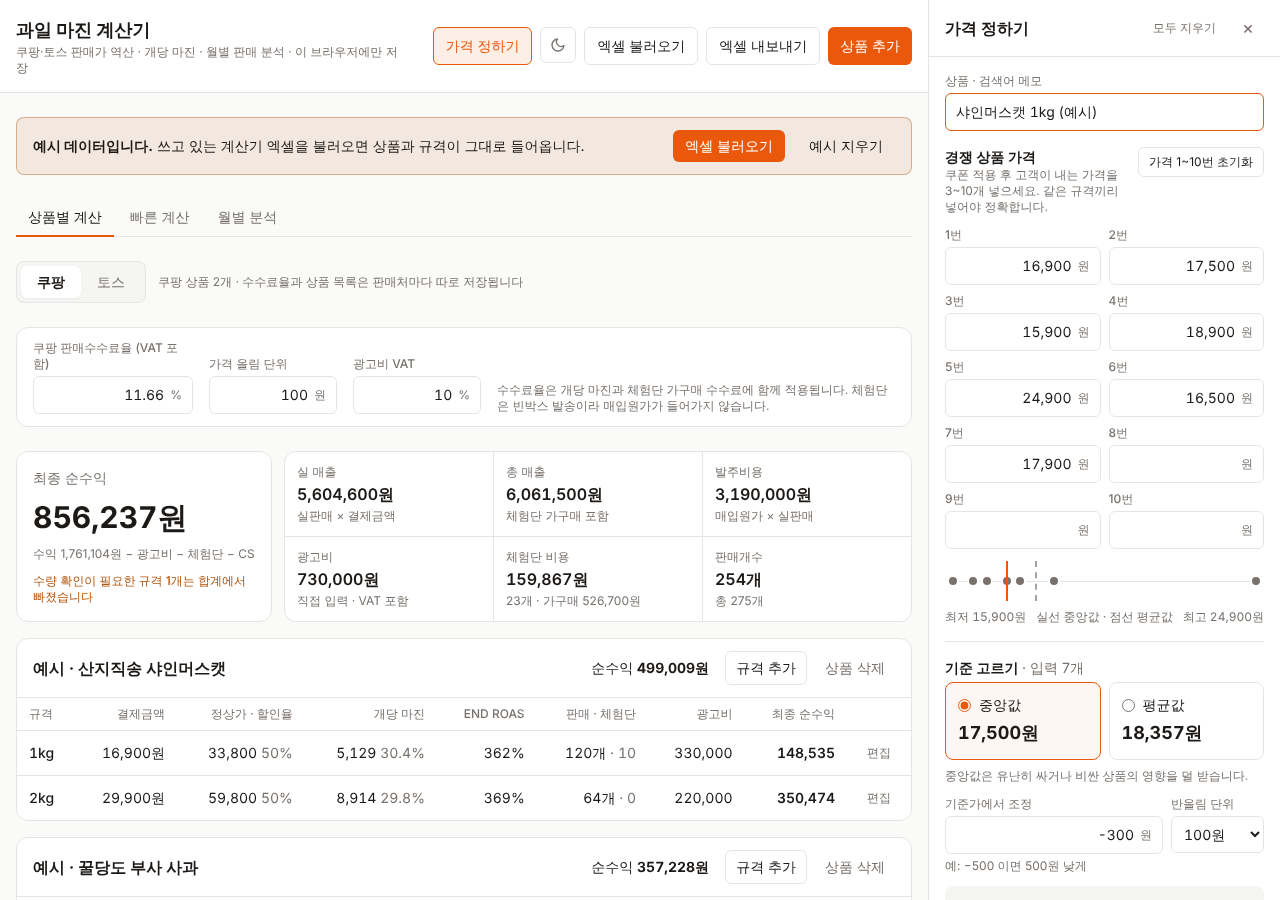
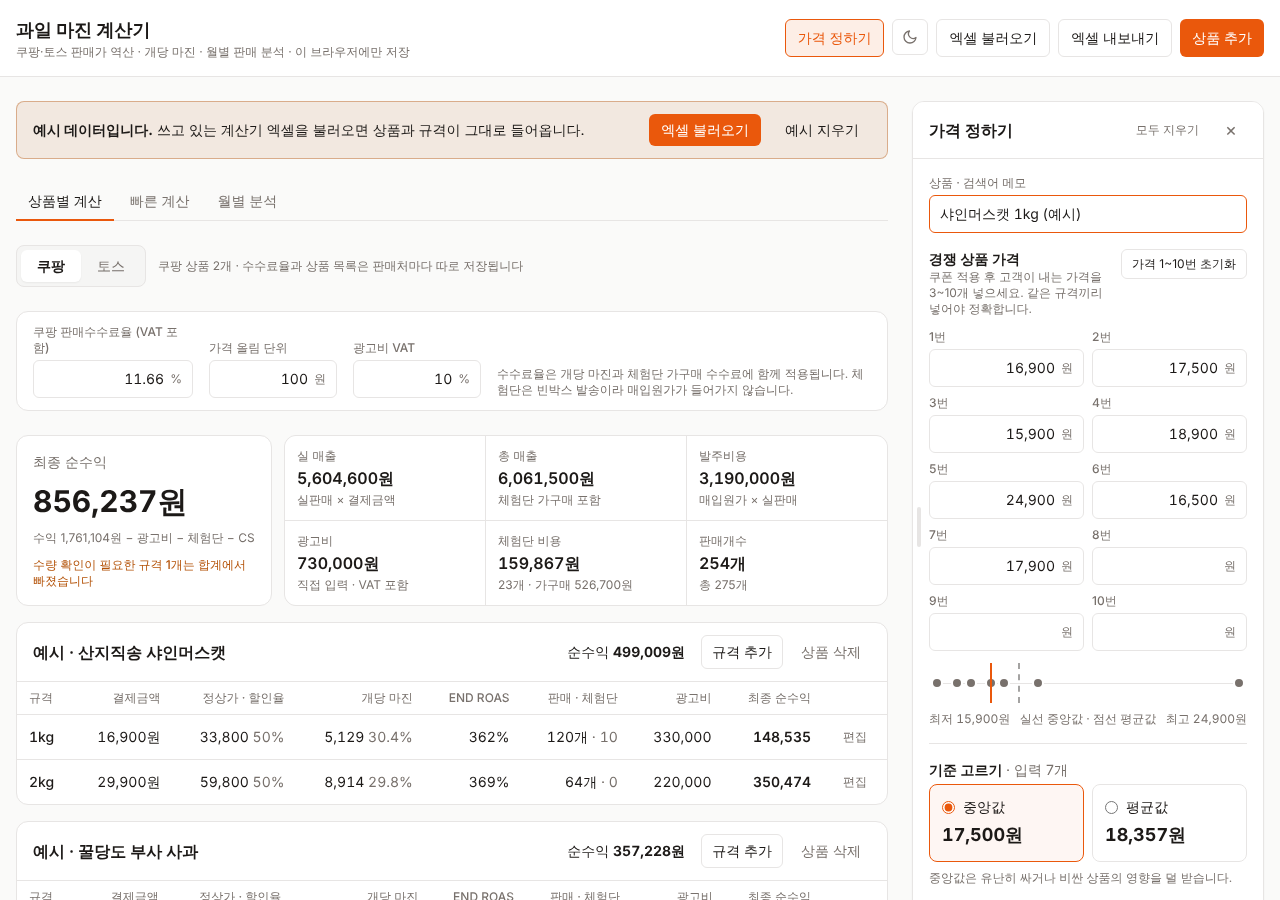
가격 정하기 패널을 본문 옆에 붙이고 너비 조절 추가
- 넓은 화면에서 패널이 화면 끝이 아니라 본문 바로 오른쪽에 붙도록, 본문과 패널을 한 덩어리로 가운데 정렬
- 패널 왼쪽 가장자리를 끌어 300~760px로 너비 조절 (마지막 너비 기억, 두 번 누르면 기본 너비, ←/→ 키 지원)
- 패널이 넓어지면 가격 입력 칸이 여러 열로 늘어남
- README 설명과 스크린샷 갱신

Claude-Session: https://claude.ai/code/session_01Vrqhj2441wb3p9PaBYYXkv

diff --git a/assets/tailwind.css b/assets/tailwind.css
@@ -1,1 +1,1 @@
-*,:after,:before{--tw-border-spacing-x:0;--tw-border-spacing-y:0;--tw-translate-x:0;--tw-translate-y:0;--tw-rotate:0;--tw-skew-x:0;--tw-skew-y:0;--tw-scale-x:1;--tw-scale-y:1;--tw-pan-x: ;--tw-pan-y: ;--tw-pinch-zoom: ;--tw-scroll-snap-strictness:proximity;--tw-gradient-from-position: ;--tw-gradient-via-position: ;--tw-gradient-to-position: ;--tw-ordinal: ;--tw-slashed-zero: ;--tw-numeric-figure: ;--tw-numeric-spacing: ;--tw-numeric-fraction: ;--tw-ring-inset: ;--tw-ring-offset-width:0px;--tw-ring-offset-color:#fff;--tw-ring-color:rgba(59,130,246,.5);--tw-ring-offset-shadow:0 0 #0000;--tw-ring-shadow:0 0 #0000;--tw-shadow:0 0 #0000;--tw-shadow-colored:0 0 #0000;--tw-blur: ;--tw-brightness: ;--tw-contrast: ;--tw-grayscale: ;--tw-hue-rotate: ;--tw-invert: ;--tw-saturate: ;--tw-sepia: ;--tw-drop-shadow: ;--tw-backdrop-blur: ;--tw-backdrop-brightness: ;--tw-backdrop-contrast: ;--tw-backdrop-grayscale: ;--tw-backdrop-hue-rotate: ;--tw-backdrop-invert: ;--tw-backdrop-opacity: ;--tw-backdrop-saturate: ;--tw-backdrop-sepia: ;--tw-contain-size: ;--tw-contain-layout: ;--tw-contain-paint: ;--tw-contain-style: }::backdrop{--tw-border-spacing-x:0;--tw-border-spacing-y:0;--tw-translate-x:0;--tw-translate-y:0;--tw-rotate:0;--tw-skew-x:0;--tw-skew-y:0;--tw-scale-x:1;--tw-scale-y:1;--tw-pan-x: ;--tw-pan-y: ;--tw-pinch-zoom: ;--tw-scroll-snap-strictness:proximity;--tw-gradient-from-position: ;--tw-gradient-via-position: ;--tw-gradient-to-position: ;--tw-ordinal: ;--tw-slashed-zero: ;--tw-numeric-figure: ;--tw-numeric-spacing: ;--tw-numeric-fraction: ;--tw-ring-inset: ;--tw-ring-offset-width:0px;--tw-ring-offset-color:#fff;--tw-ring-color:rgba(59,130,246,.5);--tw-ring-offset-shadow:0 0 #0000;--tw-ring-shadow:0 0 #0000;--tw-shadow:0 0 #0000;--tw-shadow-colored:0 0 #0000;--tw-blur: ;--tw-brightness: ;--tw-contrast: ;--tw-grayscale: ;--tw-hue-rotate: ;--tw-invert: ;--tw-saturate: ;--tw-sepia: ;--tw-drop-shadow: ;--tw-backdrop-blur: ;--tw-backdrop-brightness: ;--tw-backdrop-contrast: ;--tw-backdrop-grayscale: ;--tw-backdrop-hue-rotate: ;--tw-backdrop-invert: ;--tw-backdrop-opacity: ;--tw-backdrop-saturate: ;--tw-backdrop-sepia: ;--tw-contain-size: ;--tw-contain-layout: ;--tw-contain-paint: ;--tw-contain-style: }/*! tailwindcss v3.4.17 | MIT License | https://tailwindcss.com*/*,:after,:before{box-sizing:border-box;border:0 solid #e5e7eb}:after,:before{--tw-content:""}:host,html{line-height:1.5;-webkit-text-size-adjust:100%;-moz-tab-size:4;-o-tab-size:4;tab-size:4;font-family:var(--font-sans);font-feature-settings:normal;font-variation-settings:normal;-webkit-tap-highlight-color:transparent}body{margin:0;line-height:inherit}hr{height:0;color:inherit;border-top-width:1px}abbr:where([title]){-webkit-text-decoration:underline dotted;text-decoration:underline dotted}h1,h2,h3,h4,h5,h6{font-size:inherit;font-weight:inherit}a{color:inherit;text-decoration:inherit}b,strong{font-weight:bolder}code,kbd,pre,samp{font-family:ui-monospace,SFMono-Regular,Menlo,Monaco,Consolas,Liberation Mono,Courier New,monospace;font-feature-settings:normal;font-variation-settings:normal;font-size:1em}small{font-size:80%}sub,sup{font-size:75%;line-height:0;position:relative;vertical-align:baseline}sub{bottom:-.25em}sup{top:-.5em}table{text-indent:0;border-color:inherit;border-collapse:collapse}button,input,optgroup,select,textarea{font-family:inherit;font-feature-settings:inherit;font-variation-settings:inherit;font-size:100%;font-weight:inherit;line-height:inherit;letter-spacing:inherit;color:inherit;margin:0;padding:0}button,select{text-transform:none}button,input:where([type=button]),input:where([type=reset]),input:where([type=submit]){-webkit-appearance:button;background-color:transparent;background-image:none}:-moz-focusring{outline:auto}:-moz-ui-invalid{box-shadow:none}progress{vertical-align:baseline}::-webkit-inner-spin-button,::-webkit-outer-spin-button{height:auto}[type=search]{-webkit-appearance:textfield;outline-offset:-2px}::-webkit-search-decoration{-webkit-appearance:none}::-webkit-file-upload-button{-webkit-appearance:button;font:inherit}summary{display:list-item}blockquote,dd,dl,figure,h1,h2,h3,h4,h5,h6,hr,p,pre{margin:0}fieldset{margin:0}fieldset,legend{padding:0}menu,ol,ul{list-style:none;margin:0;padding:0}dialog{padding:0}textarea{resize:vertical}input::-moz-placeholder,textarea::-moz-placeholder{opacity:1;color:#9ca3af}input::placeholder,textarea::placeholder{opacity:1;color:#9ca3af}[role=button],button{cursor:pointer}:disabled{cursor:default}audio,canvas,embed,iframe,img,object,svg,video{display:block;vertical-align:middle}img,video{max-width:100%;height:auto}[hidden]:where(:not([hidden=until-found])){display:none}.sr-only{position:absolute;width:1px;height:1px;padding:0;margin:-1px;overflow:hidden;clip:rect(0,0,0,0);white-space:nowrap;border-width:0}.pointer-events-none{pointer-events:none}.fixed{position:fixed}.absolute{position:absolute}.relative{position:relative}.sticky{position:sticky}.inset-0{inset:0}.inset-x-0{left:0;right:0}.inset-y-0{top:0;bottom:0}.right-0{right:0}.top-0{top:0}.top-1\/2{top:50%}.z-dialog{z-index:50}.z-drawer{z-index:40}.z-header{z-index:10}.col-span-2{grid-column:span 2/span 2}.m-auto{margin:auto}.-mx-1{margin-left:-.25rem;margin-right:-.25rem}.mx-2{margin-left:.5rem;margin-right:.5rem}.mx-auto{margin-left:auto;margin-right:auto}.-mb-px{margin-bottom:-1px}.mb-1{margin-bottom:.25rem}.mb-2{margin-bottom:.5rem}.mt-1{margin-top:.25rem}.mt-3{margin-top:.75rem}.flex{display:flex}.inline-flex{display:inline-flex}.table{display:table}.grid{display:grid}.hidden{display:none}.size-3{width:.75rem;height:.75rem}.size-4{width:1rem;height:1rem}.size-8{width:2rem;height:2rem}.size-9{width:2.25rem;height:2.25rem}.h-10{height:2.5rem}.h-full{height:100%}.max-h-\[calc\(100dvh-2rem\)\]{max-height:calc(100dvh - 2rem)}.min-h-dvh{min-height:100dvh}.w-14{width:3.5rem}.w-20{width:5rem}.w-32{width:8rem}.w-40{width:10rem}.w-56{width:14rem}.w-\[calc\(100\%-2rem\)\]{width:calc(100% - 2rem)}.w-full{width:100%}.w-px{width:1px}.min-w-0{min-width:0}.min-w-\[560px\]{min-width:560px}.min-w-\[760px\]{min-width:760px}.min-w-\[820px\]{min-width:820px}.min-w-\[980px\]{min-width:980px}.max-w-4xl{max-width:56rem}.max-w-6xl{max-width:72rem}.max-w-\[20rem\]{max-width:20rem}.max-w-full{max-width:100%}.max-w-md{max-width:28rem}.max-w-sm{max-width:24rem}.flex-1{flex:1 1 0%}.shrink-0{flex-shrink:0}.basis-40{flex-basis:10rem}.basis-56{flex-basis:14rem}.basis-60{flex-basis:15rem}.basis-64{flex-basis:16rem}.-translate-x-1\/2{--tw-translate-x:-50%}.-translate-x-1\/2,.-translate-y-1\/2{transform:translate(var(--tw-translate-x),var(--tw-translate-y)) rotate(var(--tw-rotate)) skewX(var(--tw-skew-x)) skewY(var(--tw-skew-y)) scaleX(var(--tw-scale-x)) scaleY(var(--tw-scale-y))}.-translate-y-1\/2{--tw-translate-y:-50%}.cursor-default{cursor:default}.cursor-pointer{cursor:pointer}.list-disc{list-style-type:disc}.grid-cols-2{grid-template-columns:repeat(2,minmax(0,1fr))}.grid-cols-\[minmax\(0\2c 1fr\)_auto\]{grid-template-columns:minmax(0,1fr) auto}.flex-col{flex-direction:column}.flex-wrap{flex-wrap:wrap}.items-start{align-items:flex-start}.items-end{align-items:flex-end}.items-center{align-items:center}.items-baseline{align-items:baseline}.justify-end{justify-content:flex-end}.justify-center{justify-content:center}.justify-between{justify-content:space-between}.gap-0\.5{gap:.125rem}.gap-1{gap:.25rem}.gap-1\.5{gap:.375rem}.gap-2{gap:.5rem}.gap-3{gap:.75rem}.gap-4{gap:1rem}.gap-6{gap:1.5rem}.gap-px{gap:1px}.gap-x-2{-moz-column-gap:.5rem;column-gap:.5rem}.gap-x-3{-moz-column-gap:.75rem;column-gap:.75rem}.gap-x-4{-moz-column-gap:1rem;column-gap:1rem}.gap-x-6{-moz-column-gap:1.5rem;column-gap:1.5rem}.gap-y-1{row-gap:.25rem}.gap-y-2{row-gap:.5rem}.gap-y-3{row-gap:.75rem}.divide-y>:not([hidden])~:not([hidden]){--tw-divide-y-reverse:0;border-top-width:calc(1px*(1 - var(--tw-divide-y-reverse)));border-bottom-width:calc(1px*var(--tw-divide-y-reverse))}.divide-line>:not([hidden])~:not([hidden]){--tw-divide-opacity:1;border-color:rgb(var(--line)/var(--tw-divide-opacity,1))}.self-start{align-self:flex-start}.overflow-hidden{overflow:hidden}.overflow-x-auto{overflow-x:auto}.overflow-y-auto{overflow-y:auto}.truncate{overflow:hidden;text-overflow:ellipsis}.truncate,.whitespace-nowrap{white-space:nowrap}.text-balance{text-wrap:balance}.text-pretty{text-wrap:pretty}.rounded{border-radius:.25rem}.rounded-full{border-radius:9999px}.rounded-lg{border-radius:.5rem}.rounded-md{border-radius:.375rem}.rounded-xl{border-radius:.75rem}.rounded-b{border-bottom-right-radius:.25rem;border-bottom-left-radius:.25rem}.rounded-t{border-top-left-radius:.25rem;border-top-right-radius:.25rem}.border{border-width:1px}.border-2{border-width:2px}.border-b{border-bottom-width:1px}.border-b-2{border-bottom-width:2px}.border-l{border-left-width:1px}.border-l-2{border-left-width:2px}.border-t{border-top-width:1px}.border-dashed{border-style:dashed}.border-accent{--tw-border-opacity:1;border-color:rgb(var(--accent)/var(--tw-border-opacity,1))}.border-accent\/40{border-color:rgb(var(--accent)/.4)}.border-accent\/50{border-color:rgb(var(--accent)/.5)}.border-fg\/40{border-color:rgb(var(--fg)/.4)}.border-line{--tw-border-opacity:1;border-color:rgb(var(--line)/var(--tw-border-opacity,1))}.border-neg{--tw-border-opacity:1;border-color:rgb(var(--neg)/var(--tw-border-opacity,1))}.border-surface{--tw-border-opacity:1;border-color:rgb(var(--surface)/var(--tw-border-opacity,1))}.border-transparent{border-color:transparent}.border-warn{--tw-border-opacity:1;border-color:rgb(var(--warn)/var(--tw-border-opacity,1))}.border-warn\/40{border-color:rgb(var(--warn)/.4)}.bg-accent{--tw-bg-opacity:1;background-color:rgb(var(--accent)/var(--tw-bg-opacity,1))}.bg-accent\/10{background-color:rgb(var(--accent)/.1)}.bg-accent\/15{background-color:rgb(var(--accent)/.15)}.bg-accent\/5{background-color:rgb(var(--accent)/.05)}.bg-black\/40{background-color:rgba(0,0,0,.4)}.bg-fg{background-color:rgb(var(--fg)/var(--tw-bg-opacity,1))}.bg-fg,.bg-line{--tw-bg-opacity:1}.bg-line{background-color:rgb(var(--line)/var(--tw-bg-opacity,1))}.bg-muted{--tw-bg-opacity:1;background-color:rgb(var(--muted)/var(--tw-bg-opacity,1))}.bg-neg{--tw-bg-opacity:1;background-color:rgb(var(--neg)/var(--tw-bg-opacity,1))}.bg-neg\/10{background-color:rgb(var(--neg)/.1)}.bg-pos\/10{background-color:rgb(var(--pos)/.1)}.bg-pos\/15{background-color:rgb(var(--pos)/.15)}.bg-soft{--tw-bg-opacity:1;background-color:rgb(var(--soft)/var(--tw-bg-opacity,1))}.bg-soft\/60{background-color:rgb(var(--soft)/.6)}.bg-surface{--tw-bg-opacity:1;background-color:rgb(var(--surface)/var(--tw-bg-opacity,1))}.bg-transparent{background-color:transparent}.bg-warn\/10{background-color:rgb(var(--warn)/.1)}.bg-warn\/15{background-color:rgb(var(--warn)/.15)}.p-0{padding:0}.p-1{padding:.25rem}.p-3{padding:.75rem}.p-4{padding:1rem}.p-5{padding:1.25rem}.px-1{padding-left:.25rem;padding-right:.25rem}.px-1\.5{padding-left:.375rem;padding-right:.375rem}.px-2{padding-left:.5rem;padding-right:.5rem}.px-2\.5{padding-left:.625rem;padding-right:.625rem}.px-3{padding-left:.75rem;padding-right:.75rem}.px-4{padding-left:1rem;padding-right:1rem}.px-5{padding-left:1.25rem;padding-right:1.25rem}.px-px{padding-left:1px;padding-right:1px}.py-0\.5{padding-top:.125rem;padding-bottom:.125rem}.py-1{padding-top:.25rem;padding-bottom:.25rem}.py-1\.5{padding-top:.375rem;padding-bottom:.375rem}.py-12{padding-top:3rem;padding-bottom:3rem}.py-2{padding-top:.5rem;padding-bottom:.5rem}.py-3{padding-top:.75rem;padding-bottom:.75rem}.py-4{padding-top:1rem;padding-bottom:1rem}.py-6{padding-top:1.5rem;padding-bottom:1.5rem}.pl-1\.5{padding-left:.375rem}.pl-2{padding-left:.5rem}.pl-5{padding-left:1.25rem}.pl-8{padding-left:2rem}.pr-1{padding-right:.25rem}.pt-3{padding-top:.75rem}.pt-4{padding-top:1rem}.text-left{text-align:left}.text-center{text-align:center}.text-right{text-align:right}.text-3xl{font-size:1.875rem;line-height:2.25rem}.text-\[11px\]{font-size:11px}.text-base{font-size:1rem;line-height:1.5rem}.text-lg{font-size:1.125rem;line-height:1.75rem}.text-sm{font-size:.875rem;line-height:1.25rem}.text-xs{font-size:.75rem;line-height:1rem}.font-bold{font-weight:700}.font-medium{font-weight:500}.font-normal{font-weight:400}.font-semibold{font-weight:600}.tabular-nums{--tw-numeric-spacing:tabular-nums;font-variant-numeric:var(--tw-ordinal) var(--tw-slashed-zero) var(--tw-numeric-figure) var(--tw-numeric-spacing) var(--tw-numeric-fraction)}.text-accent{--tw-text-opacity:1;color:rgb(var(--accent)/var(--tw-text-opacity,1))}.text-accent-fg{--tw-text-opacity:1;color:rgb(var(--accent-fg)/var(--tw-text-opacity,1))}.text-fg{--tw-text-opacity:1;color:rgb(var(--fg)/var(--tw-text-opacity,1))}.text-muted{--tw-text-opacity:1;color:rgb(var(--muted)/var(--tw-text-opacity,1))}.text-neg{--tw-text-opacity:1;color:rgb(var(--neg)/var(--tw-text-opacity,1))}.text-pos{--tw-text-opacity:1;color:rgb(var(--pos)/var(--tw-text-opacity,1))}.text-warn{--tw-text-opacity:1;color:rgb(var(--warn)/var(--tw-text-opacity,1))}.text-white{--tw-text-opacity:1;color:rgb(255 255 255/var(--tw-text-opacity,1))}.accent-\[rgb\(var\(--accent\)\)\]{accent-color:rgb(var(--accent))}.shadow-sm{--tw-shadow:0 1px 2px 0 rgba(0,0,0,.05);--tw-shadow-colored:0 1px 2px 0 var(--tw-shadow-color)}.shadow-sm,.shadow-xl{box-shadow:var(--tw-ring-offset-shadow,0 0 #0000),var(--tw-ring-shadow,0 0 #0000),var(--tw-shadow)}.shadow-xl{--tw-shadow:0 20px 25px -5px rgba(0,0,0,.1),0 8px 10px -6px rgba(0,0,0,.1);--tw-shadow-colored:0 20px 25px -5px var(--tw-shadow-color),0 8px 10px -6px var(--tw-shadow-color)}.outline-none{outline:2px solid transparent;outline-offset:2px}.outline{outline-style:solid}.filter{filter:var(--tw-blur) var(--tw-brightness) var(--tw-contrast) var(--tw-grayscale) var(--tw-hue-rotate) var(--tw-invert) var(--tw-saturate) var(--tw-sepia) var(--tw-drop-shadow)}.first\:border-t-0:first-child{border-top-width:0}.focus-within\:border-accent:focus-within{--tw-border-opacity:1;border-color:rgb(var(--accent)/var(--tw-border-opacity,1))}.hover\:bg-accent\/10:hover{background-color:rgb(var(--accent)/.1)}.hover\:bg-accent\/90:hover{background-color:rgb(var(--accent)/.9)}.hover\:bg-line:hover{--tw-bg-opacity:1;background-color:rgb(var(--line)/var(--tw-bg-opacity,1))}.hover\:bg-neg\/90:hover{background-color:rgb(var(--neg)/.9)}.hover\:bg-soft:hover{--tw-bg-opacity:1;background-color:rgb(var(--soft)/var(--tw-bg-opacity,1))}.hover\:bg-warn\/15:hover{background-color:rgb(var(--warn)/.15)}.hover\:text-accent:hover{--tw-text-opacity:1;color:rgb(var(--accent)/var(--tw-text-opacity,1))}.hover\:text-fg:hover{--tw-text-opacity:1;color:rgb(var(--fg)/var(--tw-text-opacity,1))}.hover\:text-neg:hover{--tw-text-opacity:1;color:rgb(var(--neg)/var(--tw-text-opacity,1))}.focus\:border-accent:focus{--tw-border-opacity:1;border-color:rgb(var(--accent)/var(--tw-border-opacity,1))}.focus\:bg-soft:focus{--tw-bg-opacity:1;background-color:rgb(var(--soft)/var(--tw-bg-opacity,1))}.disabled\:border-line:disabled{--tw-border-opacity:1;border-color:rgb(var(--line)/var(--tw-border-opacity,1))}.disabled\:bg-transparent:disabled{background-color:transparent}.disabled\:text-muted:disabled{--tw-text-opacity:1;color:rgb(var(--muted)/var(--tw-text-opacity,1))}.disabled\:opacity-50:disabled{opacity:.5}@media (min-width:640px){.sm\:col-span-1{grid-column:span 1/span 1}.sm\:grid-cols-3{grid-template-columns:repeat(3,minmax(0,1fr))}}@media (min-width:768px){.md\:grid-cols-2{grid-template-columns:repeat(2,minmax(0,1fr))}.md\:grid-cols-\[minmax\(0\2c 1fr\)_minmax\(0\2c 20rem\)\]{grid-template-columns:minmax(0,1fr) minmax(0,20rem)}}@media (min-width:1024px){.lg\:sticky{position:sticky}.lg\:top-0{top:0}.lg\:z-auto{z-index:auto}.lg\:flex{display:flex}.lg\:hidden{display:none}.lg\:h-dvh{height:100dvh}.lg\:w-\[22rem\]{width:22rem}.lg\:max-w-none{max-width:none}.lg\:shrink-0{flex-shrink:0}.lg\:grid-cols-6{grid-template-columns:repeat(6,minmax(0,1fr))}.lg\:grid-cols-\[minmax\(0\2c 16rem\)_minmax\(0\2c 1fr\)\]{grid-template-columns:minmax(0,16rem) minmax(0,1fr)}.lg\:self-start{align-self:flex-start}.lg\:shadow-none{--tw-shadow:0 0 #0000;--tw-shadow-colored:0 0 #0000;box-shadow:var(--tw-ring-offset-shadow,0 0 #0000),var(--tw-ring-shadow,0 0 #0000),var(--tw-shadow)}}.\[\&\>td\]\:px-3>td{padding-left:.75rem;padding-right:.75rem}.\[\&\>td\]\:px-4>td{padding-left:1rem;padding-right:1rem}.\[\&\>td\]\:py-2>td{padding-top:.5rem;padding-bottom:.5rem}.\[\&\>td\]\:py-2\.5>td{padding-top:.625rem;padding-bottom:.625rem}.\[\&\>th\]\:px-3>th{padding-left:.75rem;padding-right:.75rem}.\[\&\>th\]\:py-2>th{padding-top:.5rem;padding-bottom:.5rem}.\[\&\>th\]\:font-medium>th{font-weight:500}
+*,:after,:before{--tw-border-spacing-x:0;--tw-border-spacing-y:0;--tw-translate-x:0;--tw-translate-y:0;--tw-rotate:0;--tw-skew-x:0;--tw-skew-y:0;--tw-scale-x:1;--tw-scale-y:1;--tw-pan-x: ;--tw-pan-y: ;--tw-pinch-zoom: ;--tw-scroll-snap-strictness:proximity;--tw-gradient-from-position: ;--tw-gradient-via-position: ;--tw-gradient-to-position: ;--tw-ordinal: ;--tw-slashed-zero: ;--tw-numeric-figure: ;--tw-numeric-spacing: ;--tw-numeric-fraction: ;--tw-ring-inset: ;--tw-ring-offset-width:0px;--tw-ring-offset-color:#fff;--tw-ring-color:rgba(59,130,246,.5);--tw-ring-offset-shadow:0 0 #0000;--tw-ring-shadow:0 0 #0000;--tw-shadow:0 0 #0000;--tw-shadow-colored:0 0 #0000;--tw-blur: ;--tw-brightness: ;--tw-contrast: ;--tw-grayscale: ;--tw-hue-rotate: ;--tw-invert: ;--tw-saturate: ;--tw-sepia: ;--tw-drop-shadow: ;--tw-backdrop-blur: ;--tw-backdrop-brightness: ;--tw-backdrop-contrast: ;--tw-backdrop-grayscale: ;--tw-backdrop-hue-rotate: ;--tw-backdrop-invert: ;--tw-backdrop-opacity: ;--tw-backdrop-saturate: ;--tw-backdrop-sepia: ;--tw-contain-size: ;--tw-contain-layout: ;--tw-contain-paint: ;--tw-contain-style: }::backdrop{--tw-border-spacing-x:0;--tw-border-spacing-y:0;--tw-translate-x:0;--tw-translate-y:0;--tw-rotate:0;--tw-skew-x:0;--tw-skew-y:0;--tw-scale-x:1;--tw-scale-y:1;--tw-pan-x: ;--tw-pan-y: ;--tw-pinch-zoom: ;--tw-scroll-snap-strictness:proximity;--tw-gradient-from-position: ;--tw-gradient-via-position: ;--tw-gradient-to-position: ;--tw-ordinal: ;--tw-slashed-zero: ;--tw-numeric-figure: ;--tw-numeric-spacing: ;--tw-numeric-fraction: ;--tw-ring-inset: ;--tw-ring-offset-width:0px;--tw-ring-offset-color:#fff;--tw-ring-color:rgba(59,130,246,.5);--tw-ring-offset-shadow:0 0 #0000;--tw-ring-shadow:0 0 #0000;--tw-shadow:0 0 #0000;--tw-shadow-colored:0 0 #0000;--tw-blur: ;--tw-brightness: ;--tw-contrast: ;--tw-grayscale: ;--tw-hue-rotate: ;--tw-invert: ;--tw-saturate: ;--tw-sepia: ;--tw-drop-shadow: ;--tw-backdrop-blur: ;--tw-backdrop-brightness: ;--tw-backdrop-contrast: ;--tw-backdrop-grayscale: ;--tw-backdrop-hue-rotate: ;--tw-backdrop-invert: ;--tw-backdrop-opacity: ;--tw-backdrop-saturate: ;--tw-backdrop-sepia: ;--tw-contain-size: ;--tw-contain-layout: ;--tw-contain-paint: ;--tw-contain-style: }/*! tailwindcss v3.4.17 | MIT License | https://tailwindcss.com*/*,:after,:before{box-sizing:border-box;border:0 solid #e5e7eb}:after,:before{--tw-content:""}:host,html{line-height:1.5;-webkit-text-size-adjust:100%;-moz-tab-size:4;-o-tab-size:4;tab-size:4;font-family:var(--font-sans);font-feature-settings:normal;font-variation-settings:normal;-webkit-tap-highlight-color:transparent}body{margin:0;line-height:inherit}hr{height:0;color:inherit;border-top-width:1px}abbr:where([title]){-webkit-text-decoration:underline dotted;text-decoration:underline dotted}h1,h2,h3,h4,h5,h6{font-size:inherit;font-weight:inherit}a{color:inherit;text-decoration:inherit}b,strong{font-weight:bolder}code,kbd,pre,samp{font-family:ui-monospace,SFMono-Regular,Menlo,Monaco,Consolas,Liberation Mono,Courier New,monospace;font-feature-settings:normal;font-variation-settings:normal;font-size:1em}small{font-size:80%}sub,sup{font-size:75%;line-height:0;position:relative;vertical-align:baseline}sub{bottom:-.25em}sup{top:-.5em}table{text-indent:0;border-color:inherit;border-collapse:collapse}button,input,optgroup,select,textarea{font-family:inherit;font-feature-settings:inherit;font-variation-settings:inherit;font-size:100%;font-weight:inherit;line-height:inherit;letter-spacing:inherit;color:inherit;margin:0;padding:0}button,select{text-transform:none}button,input:where([type=button]),input:where([type=reset]),input:where([type=submit]){-webkit-appearance:button;background-color:transparent;background-image:none}:-moz-focusring{outline:auto}:-moz-ui-invalid{box-shadow:none}progress{vertical-align:baseline}::-webkit-inner-spin-button,::-webkit-outer-spin-button{height:auto}[type=search]{-webkit-appearance:textfield;outline-offset:-2px}::-webkit-search-decoration{-webkit-appearance:none}::-webkit-file-upload-button{-webkit-appearance:button;font:inherit}summary{display:list-item}blockquote,dd,dl,figure,h1,h2,h3,h4,h5,h6,hr,p,pre{margin:0}fieldset{margin:0}fieldset,legend{padding:0}menu,ol,ul{list-style:none;margin:0;padding:0}dialog{padding:0}textarea{resize:vertical}input::-moz-placeholder,textarea::-moz-placeholder{opacity:1;color:#9ca3af}input::placeholder,textarea::placeholder{opacity:1;color:#9ca3af}[role=button],button{cursor:pointer}:disabled{cursor:default}audio,canvas,embed,iframe,img,object,svg,video{display:block;vertical-align:middle}img,video{max-width:100%;height:auto}[hidden]:where(:not([hidden=until-found])){display:none}.sr-only{position:absolute;width:1px;height:1px;padding:0;margin:-1px;overflow:hidden;clip:rect(0,0,0,0);white-space:nowrap;border-width:0}.pointer-events-none{pointer-events:none}.fixed{position:fixed}.absolute{position:absolute}.relative{position:relative}.sticky{position:sticky}.inset-0{inset:0}.inset-x-0{left:0;right:0}.inset-y-0{top:0;bottom:0}.left-0{left:0}.left-1{left:.25rem}.right-0{right:0}.top-0{top:0}.top-1\/2{top:50%}.z-dialog{z-index:50}.z-drawer{z-index:40}.z-header{z-index:10}.col-span-2{grid-column:span 2/span 2}.m-auto{margin:auto}.-mx-1{margin-left:-.25rem;margin-right:-.25rem}.mx-2{margin-left:.5rem;margin-right:.5rem}.mx-auto{margin-left:auto;margin-right:auto}.-mb-px{margin-bottom:-1px}.mb-1{margin-bottom:.25rem}.mb-2{margin-bottom:.5rem}.mt-1{margin-top:.25rem}.mt-3{margin-top:.75rem}.flex{display:flex}.inline-flex{display:inline-flex}.table{display:table}.grid{display:grid}.hidden{display:none}.size-3{width:.75rem;height:.75rem}.size-4{width:1rem;height:1rem}.size-8{width:2rem;height:2rem}.size-9{width:2.25rem;height:2.25rem}.h-10{height:2.5rem}.h-full{height:100%}.max-h-\[calc\(100dvh-2rem\)\]{max-height:calc(100dvh - 2rem)}.min-h-dvh{min-height:100dvh}.w-0\.5{width:.125rem}.w-1{width:.25rem}.w-14{width:3.5rem}.w-20{width:5rem}.w-3{width:.75rem}.w-32{width:8rem}.w-40{width:10rem}.w-56{width:14rem}.w-\[calc\(100\%-2rem\)\]{width:calc(100% - 2rem)}.w-full{width:100%}.w-px{width:1px}.min-w-0{min-width:0}.min-w-\[560px\]{min-width:560px}.min-w-\[760px\]{min-width:760px}.min-w-\[820px\]{min-width:820px}.min-w-\[980px\]{min-width:980px}.max-w-4xl{max-width:56rem}.max-w-6xl{max-width:72rem}.max-w-\[20rem\]{max-width:20rem}.max-w-full{max-width:100%}.max-w-md{max-width:28rem}.max-w-sm{max-width:24rem}.flex-1{flex:1 1 0%}.shrink-0{flex-shrink:0}.basis-40{flex-basis:10rem}.basis-56{flex-basis:14rem}.basis-60{flex-basis:15rem}.basis-64{flex-basis:16rem}.-translate-x-1\/2{--tw-translate-x:-50%}.-translate-x-1\/2,.-translate-y-1\/2{transform:translate(var(--tw-translate-x),var(--tw-translate-y)) rotate(var(--tw-rotate)) skewX(var(--tw-skew-x)) skewY(var(--tw-skew-y)) scaleX(var(--tw-scale-x)) scaleY(var(--tw-scale-y))}.-translate-y-1\/2{--tw-translate-y:-50%}.cursor-col-resize{cursor:col-resize}.cursor-default{cursor:default}.cursor-pointer{cursor:pointer}.list-disc{list-style-type:disc}.grid-cols-2{grid-template-columns:repeat(2,minmax(0,1fr))}.grid-cols-\[minmax\(0\2c 1fr\)_auto\]{grid-template-columns:minmax(0,1fr) auto}.grid-cols-\[repeat\(auto-fill\2c minmax\(8\.5rem\2c 1fr\)\)\]{grid-template-columns:repeat(auto-fill,minmax(8.5rem,1fr))}.flex-col{flex-direction:column}.flex-wrap{flex-wrap:wrap}.items-start{align-items:flex-start}.items-end{align-items:flex-end}.items-center{align-items:center}.items-baseline{align-items:baseline}.justify-end{justify-content:flex-end}.justify-center{justify-content:center}.justify-between{justify-content:space-between}.gap-0\.5{gap:.125rem}.gap-1{gap:.25rem}.gap-1\.5{gap:.375rem}.gap-2{gap:.5rem}.gap-3{gap:.75rem}.gap-4{gap:1rem}.gap-6{gap:1.5rem}.gap-px{gap:1px}.gap-x-2{-moz-column-gap:.5rem;column-gap:.5rem}.gap-x-3{-moz-column-gap:.75rem;column-gap:.75rem}.gap-x-4{-moz-column-gap:1rem;column-gap:1rem}.gap-x-6{-moz-column-gap:1.5rem;column-gap:1.5rem}.gap-y-1{row-gap:.25rem}.gap-y-2{row-gap:.5rem}.gap-y-3{row-gap:.75rem}.divide-y>:not([hidden])~:not([hidden]){--tw-divide-y-reverse:0;border-top-width:calc(1px*(1 - var(--tw-divide-y-reverse)));border-bottom-width:calc(1px*var(--tw-divide-y-reverse))}.divide-line>:not([hidden])~:not([hidden]){--tw-divide-opacity:1;border-color:rgb(var(--line)/var(--tw-divide-opacity,1))}.self-start{align-self:flex-start}.overflow-hidden{overflow:hidden}.overflow-x-auto{overflow-x:auto}.overflow-y-auto{overflow-y:auto}.truncate{overflow:hidden;text-overflow:ellipsis}.truncate,.whitespace-nowrap{white-space:nowrap}.text-balance{text-wrap:balance}.text-pretty{text-wrap:pretty}.rounded{border-radius:.25rem}.rounded-full{border-radius:9999px}.rounded-lg{border-radius:.5rem}.rounded-md{border-radius:.375rem}.rounded-xl{border-radius:.75rem}.rounded-b{border-bottom-right-radius:.25rem;border-bottom-left-radius:.25rem}.rounded-t{border-top-left-radius:.25rem;border-top-right-radius:.25rem}.border{border-width:1px}.border-2{border-width:2px}.border-b{border-bottom-width:1px}.border-b-2{border-bottom-width:2px}.border-l{border-left-width:1px}.border-l-2{border-left-width:2px}.border-t{border-top-width:1px}.border-dashed{border-style:dashed}.border-accent{--tw-border-opacity:1;border-color:rgb(var(--accent)/var(--tw-border-opacity,1))}.border-accent\/40{border-color:rgb(var(--accent)/.4)}.border-accent\/50{border-color:rgb(var(--accent)/.5)}.border-fg\/40{border-color:rgb(var(--fg)/.4)}.border-line{--tw-border-opacity:1;border-color:rgb(var(--line)/var(--tw-border-opacity,1))}.border-neg{--tw-border-opacity:1;border-color:rgb(var(--neg)/var(--tw-border-opacity,1))}.border-surface{--tw-border-opacity:1;border-color:rgb(var(--surface)/var(--tw-border-opacity,1))}.border-transparent{border-color:transparent}.border-warn{--tw-border-opacity:1;border-color:rgb(var(--warn)/var(--tw-border-opacity,1))}.border-warn\/40{border-color:rgb(var(--warn)/.4)}.bg-accent{--tw-bg-opacity:1;background-color:rgb(var(--accent)/var(--tw-bg-opacity,1))}.bg-accent\/10{background-color:rgb(var(--accent)/.1)}.bg-accent\/15{background-color:rgb(var(--accent)/.15)}.bg-accent\/5{background-color:rgb(var(--accent)/.05)}.bg-black\/40{background-color:rgba(0,0,0,.4)}.bg-fg{background-color:rgb(var(--fg)/var(--tw-bg-opacity,1))}.bg-fg,.bg-line{--tw-bg-opacity:1}.bg-line{background-color:rgb(var(--line)/var(--tw-bg-opacity,1))}.bg-muted{--tw-bg-opacity:1;background-color:rgb(var(--muted)/var(--tw-bg-opacity,1))}.bg-neg{--tw-bg-opacity:1;background-color:rgb(var(--neg)/var(--tw-bg-opacity,1))}.bg-neg\/10{background-color:rgb(var(--neg)/.1)}.bg-pos\/10{background-color:rgb(var(--pos)/.1)}.bg-pos\/15{background-color:rgb(var(--pos)/.15)}.bg-soft{--tw-bg-opacity:1;background-color:rgb(var(--soft)/var(--tw-bg-opacity,1))}.bg-soft\/60{background-color:rgb(var(--soft)/.6)}.bg-surface{--tw-bg-opacity:1;background-color:rgb(var(--surface)/var(--tw-bg-opacity,1))}.bg-transparent{background-color:transparent}.bg-warn\/10{background-color:rgb(var(--warn)/.1)}.bg-warn\/15{background-color:rgb(var(--warn)/.15)}.p-0{padding:0}.p-1{padding:.25rem}.p-3{padding:.75rem}.p-4{padding:1rem}.p-5{padding:1.25rem}.px-1{padding-left:.25rem;padding-right:.25rem}.px-1\.5{padding-left:.375rem;padding-right:.375rem}.px-2{padding-left:.5rem;padding-right:.5rem}.px-2\.5{padding-left:.625rem;padding-right:.625rem}.px-3{padding-left:.75rem;padding-right:.75rem}.px-4{padding-left:1rem;padding-right:1rem}.px-5{padding-left:1.25rem;padding-right:1.25rem}.px-px{padding-left:1px;padding-right:1px}.py-0\.5{padding-top:.125rem;padding-bottom:.125rem}.py-1{padding-top:.25rem;padding-bottom:.25rem}.py-1\.5{padding-top:.375rem;padding-bottom:.375rem}.py-12{padding-top:3rem;padding-bottom:3rem}.py-2{padding-top:.5rem;padding-bottom:.5rem}.py-3{padding-top:.75rem;padding-bottom:.75rem}.py-4{padding-top:1rem;padding-bottom:1rem}.py-6{padding-top:1.5rem;padding-bottom:1.5rem}.pl-1\.5{padding-left:.375rem}.pl-2{padding-left:.5rem}.pl-5{padding-left:1.25rem}.pl-8{padding-left:2rem}.pr-1{padding-right:.25rem}.pt-3{padding-top:.75rem}.pt-4{padding-top:1rem}.text-left{text-align:left}.text-center{text-align:center}.text-right{text-align:right}.text-3xl{font-size:1.875rem;line-height:2.25rem}.text-\[11px\]{font-size:11px}.text-base{font-size:1rem;line-height:1.5rem}.text-lg{font-size:1.125rem;line-height:1.75rem}.text-sm{font-size:.875rem;line-height:1.25rem}.text-xs{font-size:.75rem;line-height:1rem}.font-bold{font-weight:700}.font-medium{font-weight:500}.font-normal{font-weight:400}.font-semibold{font-weight:600}.tabular-nums{--tw-numeric-spacing:tabular-nums;font-variant-numeric:var(--tw-ordinal) var(--tw-slashed-zero) var(--tw-numeric-figure) var(--tw-numeric-spacing) var(--tw-numeric-fraction)}.text-accent{--tw-text-opacity:1;color:rgb(var(--accent)/var(--tw-text-opacity,1))}.text-accent-fg{--tw-text-opacity:1;color:rgb(var(--accent-fg)/var(--tw-text-opacity,1))}.text-fg{--tw-text-opacity:1;color:rgb(var(--fg)/var(--tw-text-opacity,1))}.text-muted{--tw-text-opacity:1;color:rgb(var(--muted)/var(--tw-text-opacity,1))}.text-neg{--tw-text-opacity:1;color:rgb(var(--neg)/var(--tw-text-opacity,1))}.text-pos{--tw-text-opacity:1;color:rgb(var(--pos)/var(--tw-text-opacity,1))}.text-warn{--tw-text-opacity:1;color:rgb(var(--warn)/var(--tw-text-opacity,1))}.text-white{--tw-text-opacity:1;color:rgb(255 255 255/var(--tw-text-opacity,1))}.accent-\[rgb\(var\(--accent\)\)\]{accent-color:rgb(var(--accent))}.shadow-sm{--tw-shadow:0 1px 2px 0 rgba(0,0,0,.05);--tw-shadow-colored:0 1px 2px 0 var(--tw-shadow-color)}.shadow-sm,.shadow-xl{box-shadow:var(--tw-ring-offset-shadow,0 0 #0000),var(--tw-ring-shadow,0 0 #0000),var(--tw-shadow)}.shadow-xl{--tw-shadow:0 20px 25px -5px rgba(0,0,0,.1),0 8px 10px -6px rgba(0,0,0,.1);--tw-shadow-colored:0 20px 25px -5px var(--tw-shadow-color),0 8px 10px -6px var(--tw-shadow-color)}.outline-none{outline:2px solid transparent;outline-offset:2px}.outline{outline-style:solid}.filter{filter:var(--tw-blur) var(--tw-brightness) var(--tw-contrast) var(--tw-grayscale) var(--tw-hue-rotate) var(--tw-invert) var(--tw-saturate) var(--tw-sepia) var(--tw-drop-shadow)}.first\:border-t-0:first-child{border-top-width:0}.focus-within\:border-accent:focus-within{--tw-border-opacity:1;border-color:rgb(var(--accent)/var(--tw-border-opacity,1))}.hover\:bg-accent\/10:hover{background-color:rgb(var(--accent)/.1)}.hover\:bg-accent\/90:hover{background-color:rgb(var(--accent)/.9)}.hover\:bg-line:hover{--tw-bg-opacity:1;background-color:rgb(var(--line)/var(--tw-bg-opacity,1))}.hover\:bg-neg\/90:hover{background-color:rgb(var(--neg)/.9)}.hover\:bg-soft:hover{--tw-bg-opacity:1;background-color:rgb(var(--soft)/var(--tw-bg-opacity,1))}.hover\:bg-warn\/15:hover{background-color:rgb(var(--warn)/.15)}.hover\:text-accent:hover{--tw-text-opacity:1;color:rgb(var(--accent)/var(--tw-text-opacity,1))}.hover\:text-fg:hover{--tw-text-opacity:1;color:rgb(var(--fg)/var(--tw-text-opacity,1))}.hover\:text-neg:hover{--tw-text-opacity:1;color:rgb(var(--neg)/var(--tw-text-opacity,1))}.focus\:border-accent:focus{--tw-border-opacity:1;border-color:rgb(var(--accent)/var(--tw-border-opacity,1))}.focus\:bg-soft:focus{--tw-bg-opacity:1;background-color:rgb(var(--soft)/var(--tw-bg-opacity,1))}.disabled\:border-line:disabled{--tw-border-opacity:1;border-color:rgb(var(--line)/var(--tw-border-opacity,1))}.disabled\:bg-transparent:disabled{background-color:transparent}.disabled\:text-muted:disabled{--tw-text-opacity:1;color:rgb(var(--muted)/var(--tw-text-opacity,1))}.disabled\:opacity-50:disabled{opacity:.5}.group:hover .group-hover\:bg-accent{--tw-bg-opacity:1;background-color:rgb(var(--accent)/var(--tw-bg-opacity,1))}.group:focus-visible .group-focus-visible\:bg-accent{--tw-bg-opacity:1;background-color:rgb(var(--accent)/var(--tw-bg-opacity,1))}@media (min-width:640px){.sm\:col-span-1{grid-column:span 1/span 1}.sm\:grid-cols-3{grid-template-columns:repeat(3,minmax(0,1fr))}}@media (min-width:768px){.md\:grid-cols-2{grid-template-columns:repeat(2,minmax(0,1fr))}.md\:grid-cols-\[minmax\(0\2c 1fr\)_minmax\(0\2c 20rem\)\]{grid-template-columns:minmax(0,1fr) minmax(0,20rem)}}@media (min-width:1024px){.lg\:sticky{position:sticky}.lg\:top-6{top:1.5rem}.lg\:z-auto{z-index:auto}.lg\:my-6{margin-top:1.5rem;margin-bottom:1.5rem}.lg\:block{display:block}.lg\:hidden{display:none}.lg\:h-\[calc\(100dvh-3rem\)\]{height:calc(100dvh - 3rem)}.lg\:w-\[var\(--side-w\)\]{width:var(--side-w)}.lg\:max-w-\[var\(--group-max\)\]{max-width:var(--group-max)}.lg\:max-w-none{max-width:none}.lg\:shrink-0{flex-shrink:0}.lg\:grid-cols-6{grid-template-columns:repeat(6,minmax(0,1fr))}.lg\:grid-cols-\[minmax\(0\2c 16rem\)_minmax\(0\2c 1fr\)\]{grid-template-columns:minmax(0,16rem) minmax(0,1fr)}.lg\:overflow-hidden{overflow:hidden}.lg\:rounded-xl{border-radius:.75rem}.lg\:border{border-width:1px}.lg\:shadow-sm{--tw-shadow:0 1px 2px 0 rgba(0,0,0,.05);--tw-shadow-colored:0 1px 2px 0 var(--tw-shadow-color);box-shadow:var(--tw-ring-offset-shadow,0 0 #0000),var(--tw-ring-shadow,0 0 #0000),var(--tw-shadow)}}.\[\&\>td\]\:px-3>td{padding-left:.75rem;padding-right:.75rem}.\[\&\>td\]\:px-4>td{padding-left:1rem;padding-right:1rem}.\[\&\>td\]\:py-2>td{padding-top:.5rem;padding-bottom:.5rem}.\[\&\>td\]\:py-2\.5>td{padding-top:.625rem;padding-bottom:.625rem}.\[\&\>th\]\:px-3>th{padding-left:.75rem;padding-right:.75rem}.\[\&\>th\]\:py-2>th{padding-top:.5rem;padding-bottom:.5rem}.\[\&\>th\]\:font-medium>th{font-weight:500}

diff --git a/index.html b/index.html
@@ -966,6 +966,7 @@ function LinkDialog({ open, onClose, items, calc, onLink }) {
 // ───────────── 가격 정하기: 경쟁 상품 가격 3~10개의 중앙값·평균값으로 목표 결제금액 정하기 ─────────────
 const PRICE_SLOTS = 10, PRICE_MIN = 3;
 const SIDE_KEY = 'fruit-margin-side-pricing';
+const SIDE_W_KEY = 'fruit-margin-side-width', SIDE_W_DEFAULT = 352, SIDE_W_MIN = 300, SIDE_W_MAX = 760;
 const emptyPricing = () => ({ name: '', prices: Array(PRICE_SLOTS).fill(''), basis: 'median', adjust: 0, unit: 100 });
 function priceStats(prices) {
   const v = prices.map(num).filter((x) => x > 0).sort((a, b) => a - b);
@@ -1032,7 +1033,7 @@ function PricingPanel({ pricing, setPricing, products, onApplyQuick, onApplyOpti
             <button type="button" disabled=${s.n === 0} onClick=${() => set({ prices: Array(PRICE_SLOTS).fill('') })}
               class="whitespace-nowrap rounded-md border border-line px-2.5 py-1.5 text-xs hover:bg-soft disabled:opacity-50">가격 1~${PRICE_SLOTS}번 초기화</button>
           </div>
-          <div class="grid grid-cols-2 gap-2">
+          <div class="grid grid-cols-[repeat(auto-fill,minmax(8.5rem,1fr))] gap-2">
             ${p.prices.map((v, i) => html`<${NumField} key=${i} id=${'pr-' + i} label=${`${i + 1}번`} kind="won" value=${v} onChange=${(x) => setPrice(i, x)} />`)}
           </div>
           ${enough ? html`<${PriceStrip} s=${s} pick=${p.basis} />`
@@ -1318,6 +1319,21 @@ function App() {
   const [channel, setChannel] = useState('coupang');
   const [sideOpen, setSideOpen] = useState(() => { try { return localStorage.getItem(SIDE_KEY) === 'open'; } catch (e) { return false; } });
   useEffect(() => { try { localStorage.setItem(SIDE_KEY, sideOpen ? 'open' : 'closed'); } catch (e) {} }, [sideOpen]);
+  // 패널 너비: 왼쪽 가장자리를 끌어서 조절, 마지막 너비 기억. 본문이 너무 좁아지지 않게 화면 너비에 맞춰 제한
+  const clampW = (w) => Math.round(Math.max(SIDE_W_MIN, Math.min(w, SIDE_W_MAX, window.innerWidth - 560)));
+  const [sideW, setSideW] = useState(() => { try { const v = Number(localStorage.getItem(SIDE_W_KEY)); return v >= SIDE_W_MIN && v <= SIDE_W_MAX ? v : SIDE_W_DEFAULT; } catch (e) { return SIDE_W_DEFAULT; } });
+  useEffect(() => { try { localStorage.setItem(SIDE_W_KEY, String(sideW)); } catch (e) {} }, [sideW]);
+  const startResize = (e) => {
+    e.preventDefault();
+    const x0 = e.clientX, w0 = sideW;
+    const move = (ev) => setSideW(clampW(w0 + (x0 - ev.clientX)));
+    const up = () => {
+      window.removeEventListener('pointermove', move); window.removeEventListener('pointerup', up);
+      document.body.style.cursor = ''; document.body.style.userSelect = '';
+    };
+    document.body.style.cursor = 'col-resize'; document.body.style.userSelect = 'none';
+    window.addEventListener('pointermove', move); window.addEventListener('pointerup', up);
+  };
   // 좁은 화면에서 서랍으로 열렸을 때 Esc로 닫기
   useEffect(() => {
     const onKey = (e) => { if (e.key === 'Escape' && sideOpen && !matchMedia('(min-width: 1024px)').matches && !document.querySelector('dialog[open]')) setSideOpen(false); };
@@ -1417,10 +1433,9 @@ function App() {
     : mode === 'browser' ? (saveState === 'error' ? '이 브라우저에 저장 실패' : '이 브라우저에만 저장') : '';
 
   return html`
-    <div class="min-h-dvh lg:flex">
-     <div class="min-w-0 flex-1">
+    <div class="min-h-dvh" style=${{ '--side-w': sideW + 'px', '--group-max': sideOpen ? `calc(72rem + ${sideW}px + 1.5rem)` : '72rem' }}>
       <header class="wrap border-b border-line bg-surface">
-        <div class="mx-auto flex max-w-6xl flex-wrap items-center gap-x-6 gap-y-3 py-4">
+        <div class="mx-auto flex max-w-6xl flex-wrap items-center gap-x-6 gap-y-3 py-4 lg:max-w-[var(--group-max)]">
           <div class="flex min-w-0 flex-1 basis-60 flex-col">
             <h1 class="text-lg font-bold text-balance">과일 마진 계산기</h1>
             <p class="text-xs text-muted">쿠팡·토스 판매가 역산 · 개당 마진 · 월별 판매 분석 <span aria-live="polite" class=${saveState === 'error' ? 'text-neg' : ''}>· ${saveLabel}</span></p>
@@ -1440,8 +1455,9 @@ function App() {
         </div>
       </header>
 
-      <main class="wrap py-6">
-        <div class="mx-auto flex max-w-6xl flex-col gap-6">
+      <div class="wrap">
+       <div class="mx-auto flex max-w-6xl items-start gap-6 lg:max-w-[var(--group-max)]">
+        <main class="flex min-w-0 flex-1 flex-col gap-6 py-6">
           ${data.isExample && tab === 'list' && channel === 'coupang' ? html`
             <div class="flex flex-wrap items-center gap-3 rounded-lg border border-warn/40 bg-warn/10 px-4 py-3 text-sm">
               <p class="min-w-0 flex-1 text-pretty"><b>예시 데이터입니다.</b> 쓰고 있는 계산기 엑셀을 불러오면 상품과 규격이 그대로 들어옵니다.</p>
@@ -1530,8 +1546,29 @@ function App() {
             <button type="button" class="rounded-md border border-line px-3 py-2 text-sm hover:bg-soft" onClick=${() => backupRef.current.click()}>백업 불러오기</button>
             <button type="button" class="rounded-md border border-line px-3 py-2 text-sm hover:bg-soft" onClick=${onBackup}>백업 저장</button>
           </section>
-        </div>
-      </main>
+        </main>
+        ${sideOpen ? html`
+          <div class="fixed inset-0 z-drawer bg-black/40 lg:hidden" aria-hidden="true" onClick=${() => setSideOpen(false)}></div>
+          <aside id="side-pricing" aria-labelledby="side-pricing-title"
+            class="fixed inset-y-0 right-0 z-drawer w-full max-w-sm border-l border-line bg-surface shadow-xl lg:sticky lg:top-6 lg:z-auto lg:my-6 lg:h-[calc(100dvh-3rem)] lg:w-[var(--side-w)] lg:max-w-none lg:shrink-0 lg:overflow-hidden lg:rounded-xl lg:border lg:shadow-sm"
+            style=${{ paddingRight: 'env(safe-area-inset-right, 0px)', paddingBottom: 'env(safe-area-inset-bottom, 0px)' }}>
+            <div role="separator" aria-orientation="vertical" aria-label="가격 정하기 너비 조절" tabindex="0"
+              aria-valuemin=${SIDE_W_MIN} aria-valuemax=${SIDE_W_MAX} aria-valuenow=${sideW} title="끌어서 너비 조절 · 두 번 누르면 기본 너비"
+              class="group absolute inset-y-0 left-0 z-header hidden w-3 cursor-col-resize outline-none lg:block"
+              onPointerDown=${startResize} onDoubleClick=${() => setSideW(clampW(SIDE_W_DEFAULT))}
+              onKeyDown=${(e) => { if (e.key === 'ArrowLeft' || e.key === 'ArrowRight') { e.preventDefault(); setSideW((w) => clampW(w + (e.key === 'ArrowLeft' ? 24 : -24))); } }}>
+              <span class="absolute inset-y-0 left-0 w-0.5 bg-transparent group-hover:bg-accent group-focus-visible:bg-accent"></span>
+              <span class="absolute left-1 top-1/2 h-10 w-1 -translate-y-1/2 rounded-full bg-line group-hover:bg-accent group-focus-visible:bg-accent"></span>
+            </div>
+            <div class="h-full overflow-y-auto">
+              <${PricingPanel} pricing=${data.priceSet || data.pricing?.coupang} products=${data.products} onClose=${() => setSideOpen(false)}
+                setPricing=${(v) => setData((d) => ({ ...d, priceSet: v }))}
+                onApplyQuick=${(price) => { setQuick((q) => ({ ...q, targetPay: price })); setTab('quick'); setNotice({ kind: 'ok', text: `빠른 계산의 목표 결제금액을 ${won(price)}으로 바꿨습니다.` }); }}
+                onApplyOption=${(pid, oid, price, label) => { setOption(pid, oid, { targetPay: price }); setNotice({ kind: 'ok', text: `${label}의 목표 결제금액을 ${won(price)}으로 바꿨습니다.` }); }} />
+            </div>
+          </aside>` : null}
+       </div>
+      </div>
 
       <${Modal} open=${!!edOpt} onClose=${() => setEditing(null)} labelledBy="edit-title" wide>
         ${edOpt && html`
@@ -1554,17 +1591,6 @@ function App() {
           </div>`}
       </${Modal}>
       <${Confirm} state=${confirm} onClose=${() => setConfirm(null)} />
-     </div>
-      ${sideOpen ? html`
-        <div class="fixed inset-0 z-drawer bg-black/40 lg:hidden" aria-hidden="true" onClick=${() => setSideOpen(false)}></div>
-        <aside id="side-pricing" aria-labelledby="side-pricing-title"
-          class="fixed inset-y-0 right-0 z-drawer w-full max-w-sm overflow-y-auto border-l border-line bg-surface shadow-xl lg:sticky lg:top-0 lg:z-auto lg:h-dvh lg:w-[22rem] lg:max-w-none lg:shrink-0 lg:self-start lg:shadow-none"
-          style=${{ paddingRight: 'env(safe-area-inset-right, 0px)', paddingBottom: 'env(safe-area-inset-bottom, 0px)' }}>
-          <${PricingPanel} pricing=${data.priceSet || data.pricing?.coupang} products=${data.products} onClose=${() => setSideOpen(false)}
-            setPricing=${(v) => setData((d) => ({ ...d, priceSet: v }))}
-            onApplyQuick=${(price) => { setQuick((q) => ({ ...q, targetPay: price })); setTab('quick'); setNotice({ kind: 'ok', text: `빠른 계산의 목표 결제금액을 ${won(price)}으로 바꿨습니다.` }); }}
-            onApplyOption=${(pid, oid, price, label) => { setOption(pid, oid, { targetPay: price }); setNotice({ kind: 'ok', text: `${label}의 목표 결제금액을 ${won(price)}으로 바꿨습니다.` }); }} />
-        </aside>` : null}
     </div>`;
 }
 

diff --git a/README.md b/README.md
@@ -47,7 +47,8 @@
 
 ![가격 정하기](docs/screenshots/03-pricing.png)
 
-- 헤더의 **가격 정하기** 버튼으로 엽니다. 처음에는 닫혀 있고, 마지막으로 열거나 닫은 상태를 기억합니다. 넓은 화면에서는 오른쪽에 붙어 스크롤해도 따라오고, 휴대폰처럼 좁은 화면에서는 화면을 덮는 서랍으로 열립니다(바깥을 누르거나 Esc로 닫기).
+- 헤더의 **가격 정하기** 버튼으로 엽니다. 처음에는 닫혀 있고, 마지막으로 열거나 닫은 상태를 기억합니다. 넓은 화면에서는 본문 바로 오른쪽에 붙어 스크롤해도 따라오고, 휴대폰처럼 좁은 화면에서는 화면을 덮는 서랍으로 열립니다(바깥을 누르거나 Esc로 닫기).
+- 패널 왼쪽 가장자리를 끌면 너비를 300~760px 사이에서 바꿀 수 있고, 마지막 너비를 기억합니다. 두 번 누르면 기본 너비로 돌아가고, 가장자리를 선택한 뒤 ←/→ 키로도 조절합니다. 패널이 넓어지면 가격 칸이 3~5열로 늘어납니다.
 - 비교할 상품의 가격(쿠폰 적용 후 고객이 내는 가격)을 3~10개 넣습니다. 2개 이하이면 계산하지 않습니다. **가격 1~10번 초기화**로 가격 칸만 한 번에 비울 수 있습니다.
 - 판매처·수수료와 상관없이 입력한 가격은 하나로 저장됩니다.
 - **중앙값 / 평균값** 중 기준을 고르고, 필요하면 조정 금액(예: −300원)을 더합니다. 고른 **반올림 단위**(10·100·1,000원)로 반올림한 값이 목표 최종 결제금액이 됩니다.
